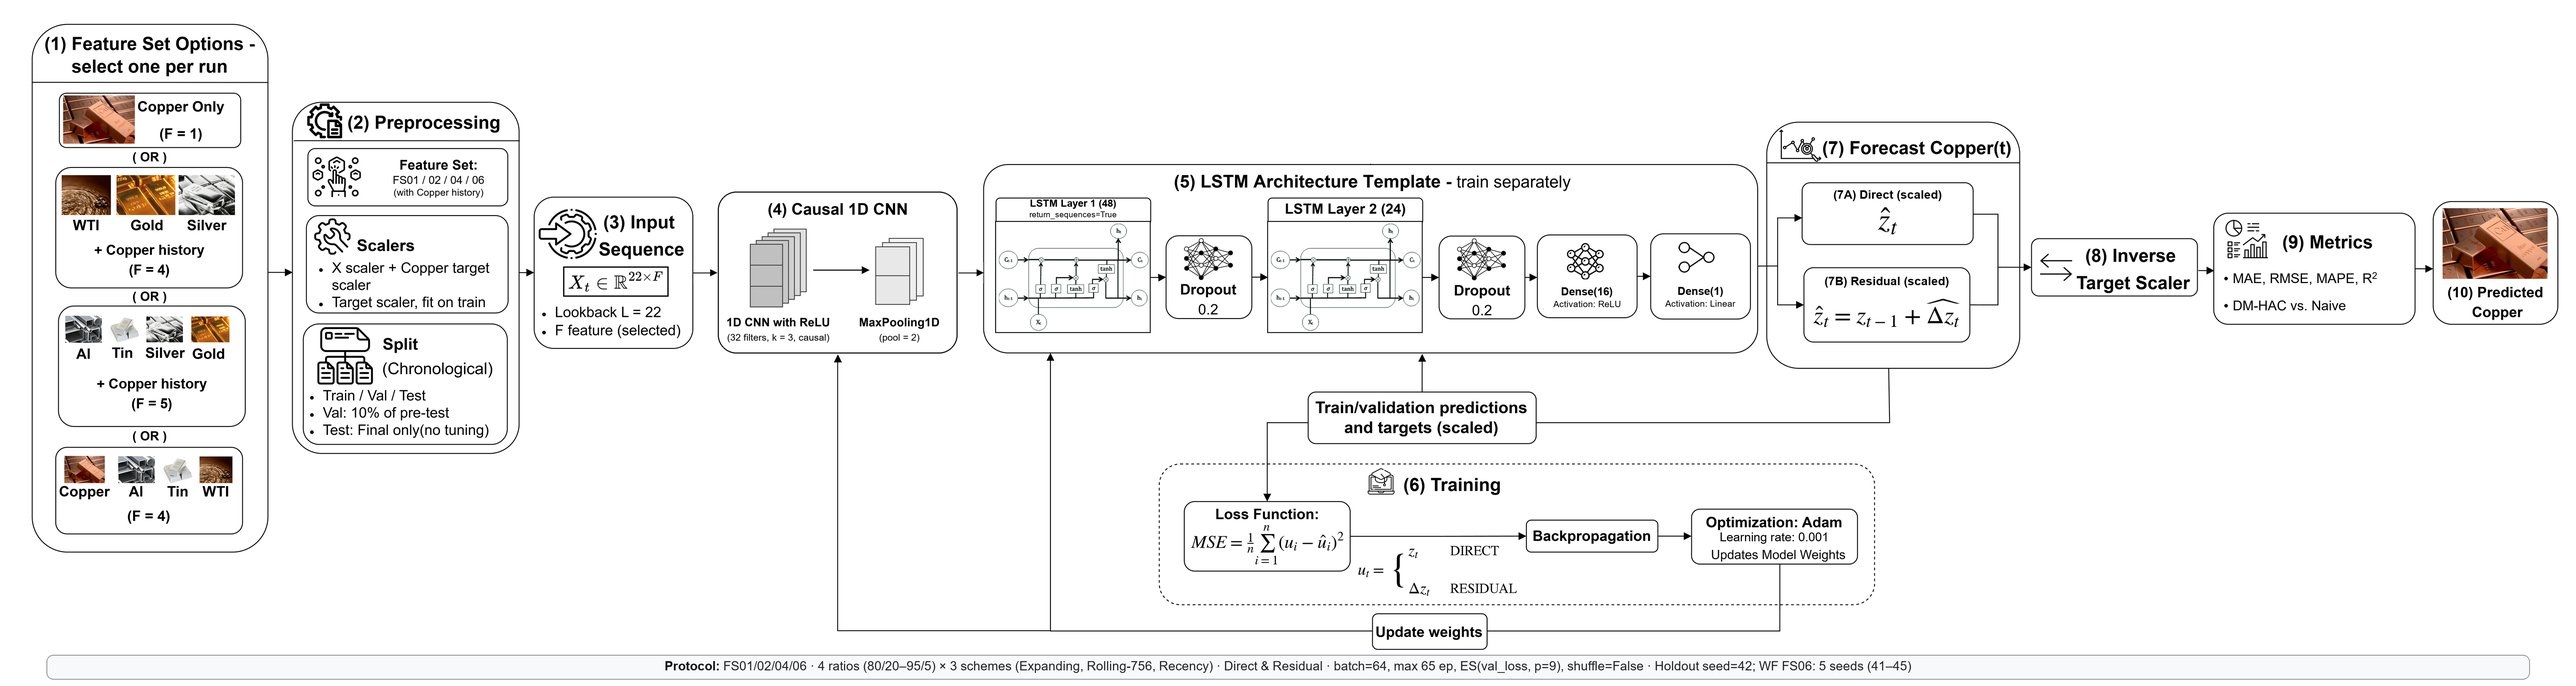
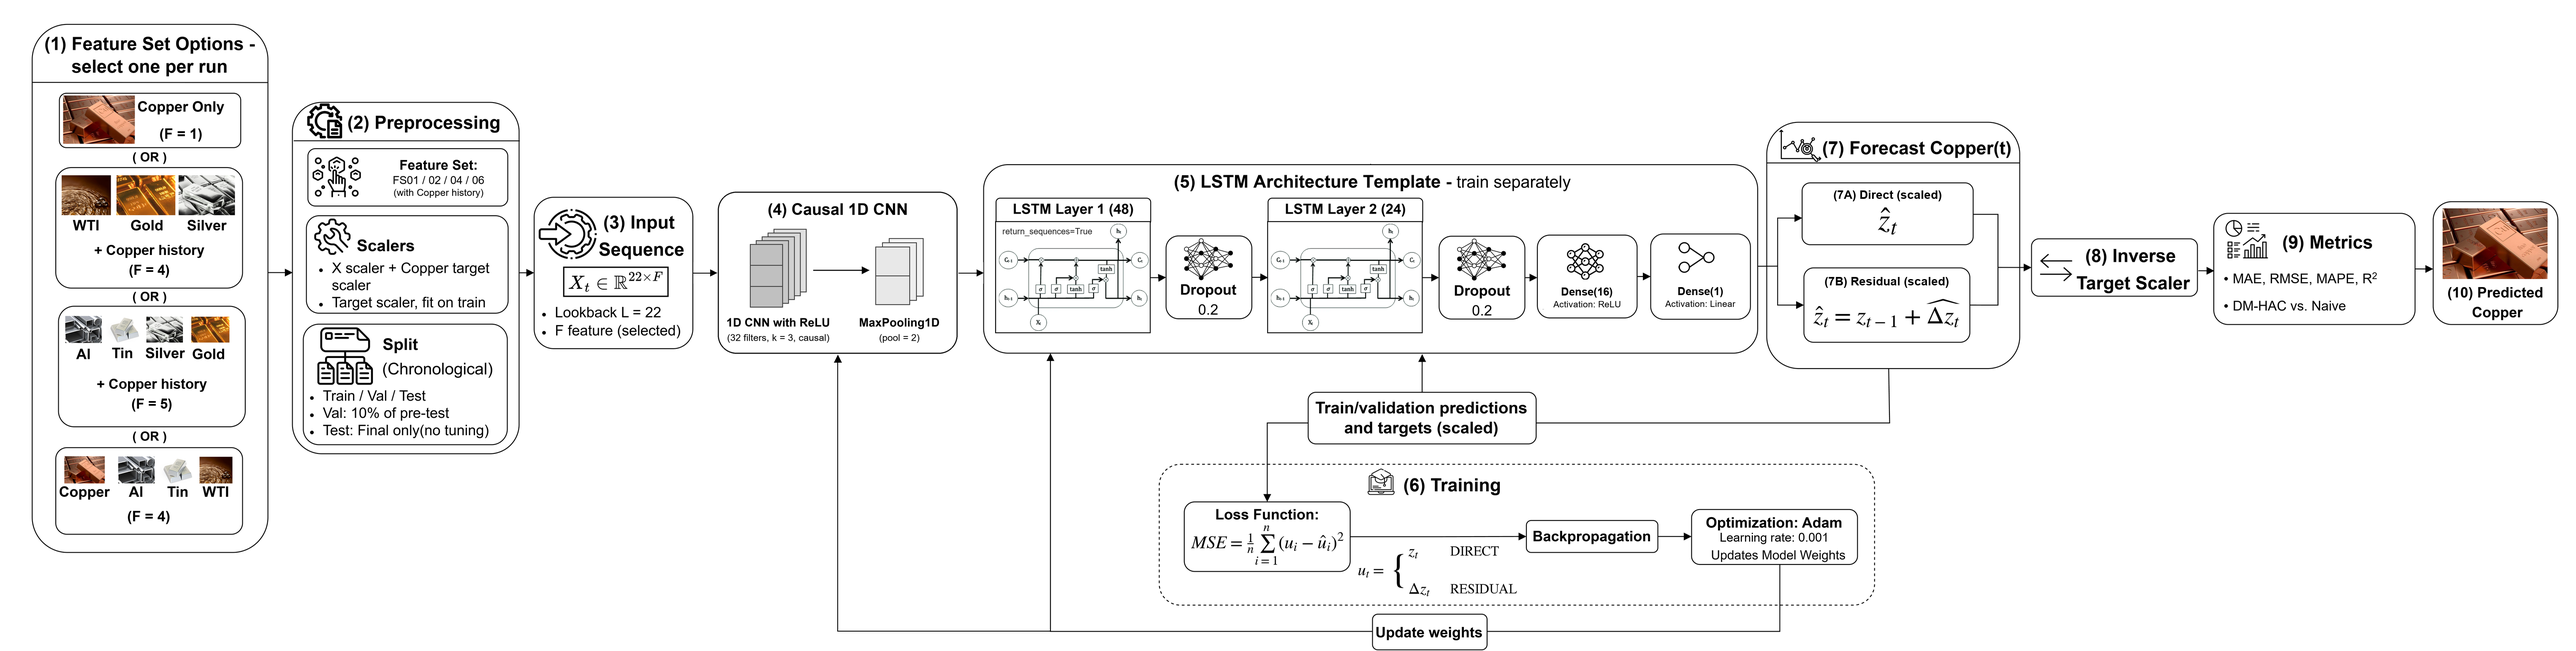
Restore uniform Layer 1/2 header form, place return_sequences=True cleanly inside Layer 1, and remove protocol footer bars across all 8 pipelines

diff --git a/Pineline/README.md b/Pineline/README.md
@@ -1,6 +1,6 @@
 # Tổng hợp Pipeline Toàn Nhóm (8 Kiến trúc Chính)
 
-Thư mục này tổng hợp đầy đủ **8 sơ đồ pipeline** cho toàn bộ các mô hình Deep Learning / Hybrid chính của 5 thành viên trong dự án **Copper Futures Price Forecasting** (định dạng PNG độ phân giải cao ~5.5K–6.1K, đã đối chiếu trực tiếp từng notebook, chuẩn hóa ký hiệu scaled `zₜ / Δzₜ`, bổ sung `return_sequences=True` cho toàn bộ tầng RNN đầu tiên, đồng bộ chuẩn in đậm/gạch đầu dòng, kiểm tra khối `Metrics` khớp 100% code và gắn thanh footer 1 dòng ghi rõ giao thức chạy ở chân mỗi sơ đồ).
+Thư mục này tổng hợp đầy đủ **8 sơ đồ pipeline** cho toàn bộ các mô hình Deep Learning / Hybrid chính của 5 thành viên trong dự án **Copper Futures Price Forecasting** (định dạng PNG độ phân giải cao ~5.5K–6.1K, đã đối chiếu trực tiếp từng notebook, chuẩn hóa ký hiệu scaled `zₜ / Δzₜ`, bổ sung `return_sequences=True` gọn trong tầng RNN đầu tiên giữ nguyên form header gốc, đồng bộ chuẩn in đậm/gạch đầu dòng và kiểm tra khối `Metrics` khớp 100% code).
 
 | # | Tệp sơ đồ | Mô hình / Phương pháp | Phạm vi bộ biến, mục tiêu & giao thức chính xác theo code | `(9) Metrics` khớp đúng notebook | Nguồn mã nguồn |
 |---:|---|---|---|---|---|
